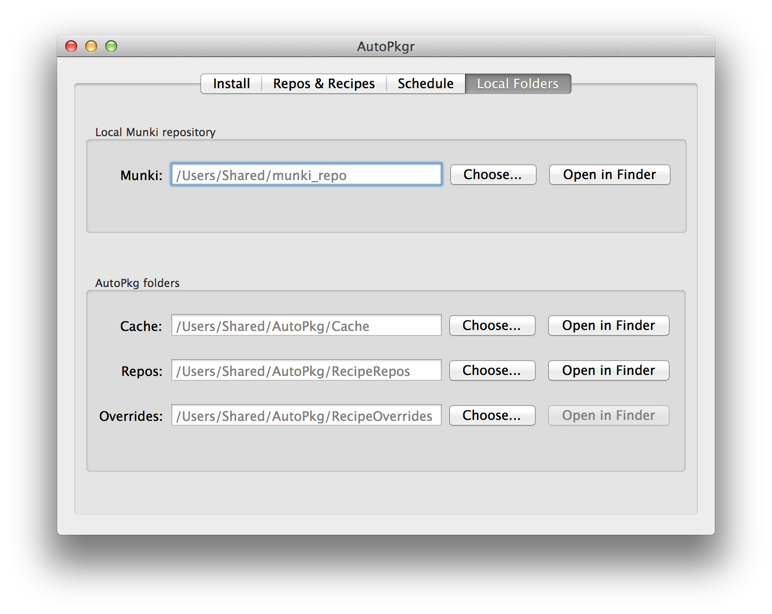
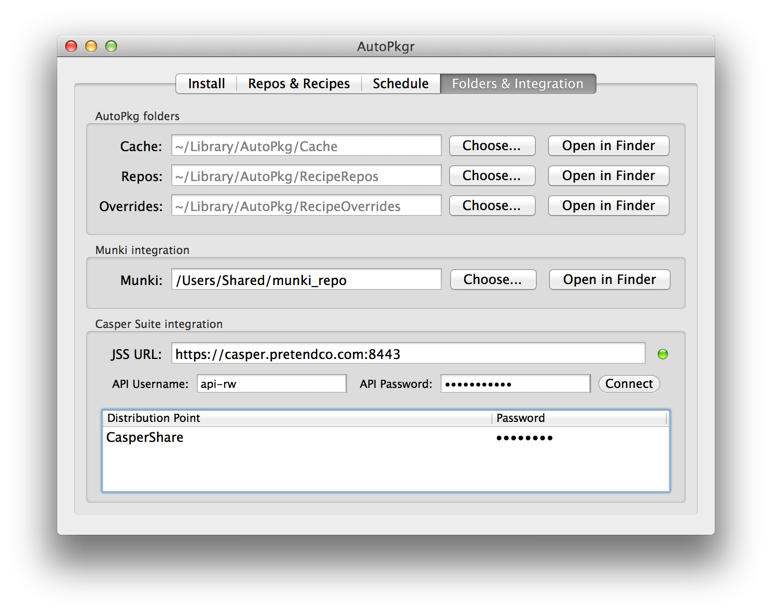
Added Munki and Casper details to readme.

Changed region(s): [[0.1244, 0.4023, 0.8705, 0.8046], [0.1244, 0.1857, 0.8705, 0.3713], [0.2176, 0.0928, 0.7772, 0.1547]]

diff --git a/README.md b/README.md
@@ -19,6 +19,7 @@ Here are the tasks that AutoPkgr makes easier:
 * Installation of Git, which AutoPkg requires.
 * Discovery of and subscription to popular AutoPkg recipe repositories.
 * Configuration of AutoPkg to use a local [Munki](https://code.google.com/p/munki/) repo.
+* Basic integration of AutoPkg with the JAMF Casper Suite.
 
 AutoPkgr also lets you do all of the following, which wouldn't be possible using AutoPkg alone:
 
@@ -70,8 +71,47 @@ That's it! AutoPkgr will now check for the latest app updates you specified, and
 
 Anytime you'd like to make changes to AutoPkgr's configuration, just click on the AutoPkgr icon in the menu bar (![Menu bar icon](doc-images/menulet.png)), and choose **Configure...**
 
-You'll also find some useful shortcuts on the **Local Folders** tab, which will take you directly to several convenient AutoPkg folders. On that tab, you can also configure the location of your local Munki repo, if you use Munki.
+You'll also find some useful shortcuts on the **Folders & Integration** tab, which will take you directly to several convenient AutoPkg folders. On that tab, you can also configure integration with Munki or Casper (see below).
     ![Local Folders](doc-images/config_tab4.png)
+
+
+Integration with Munki
+----------------------
+
+To configure AutoPkgr to pipe app updates directly into your Munki repository, follow these steps:
+
+1. Click on the **Folders & Integration** tab.
+1. In the **Munki Integration* section, click Choose.
+1. Select your munki_repo folder.
+
+You'll also want to make sure you have a few `.munki` recipes selected. Once the new versions of apps appear in your Munki repo, you can add them to the appropriate catalogs and manifests to deploy them.
+
+
+Integration with Casper
+-----------------------
+
+To configure AutoPkgr to create Self Service policies in Casper for new app updates, follow these steps:
+
+1. Create a static computer group on your JSS called **Testing**. Add one or more test computers to the group.
+1. Create an account on your JSS with Create, Read, and Update access to the following objects:
+    - Categories
+    - Smart Computer Groups
+    - Static Computer Groups
+    - Computer Extension Attributes
+    - Packages
+    - Policies
+    - Scripts
+    - File Share Distribution Points (only needs Read access)
+1. Open AutoPkgr and go to the **Folders & Integration** tab.
+1. In the **Casper Suite integration** section, enter your JSS URL, API username, and API password. Then click **Connect**.
+1. When prompted, follow the instructions to install the jss-autopkg-addon.
+1. When prompted, enter the read/write password for each distribution point.
+
+You'll also want to make sure you have a few `.jss` recipes selected. AutoPkgr will automatically add Shea Craig's [jss-recipes](https://github.com/sheagcraig/jss-recipes) repo so you'll have a few to choose from.
+
+When a `.jss` recipe runs, the package is uploaded to your distribution points, a Self Service policy is created and scoped to a new smart group. As a result, computers in the Testing group with less than the latest version of the app should now be able to install the latest version through Self Service.
+
+<!-- Insert link to Elliot's presentation here, once it's online. -->
 
 
 Troubleshooting
